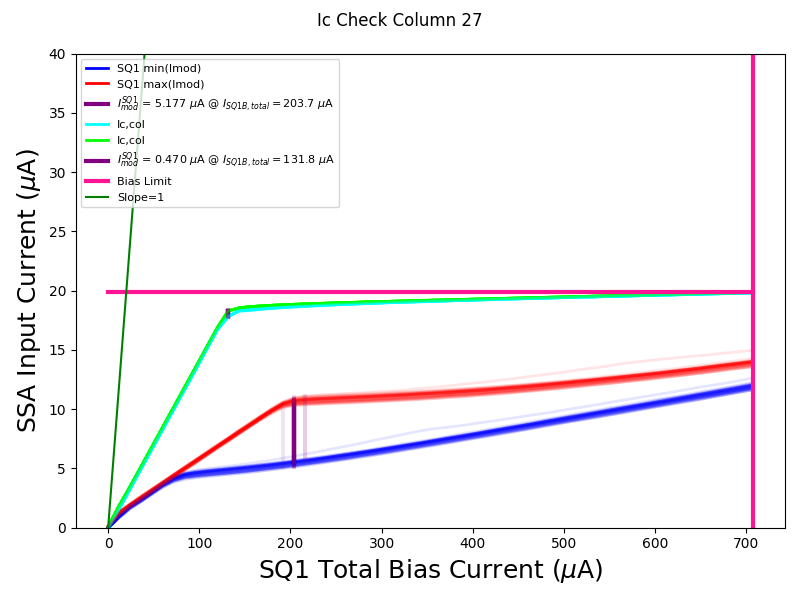
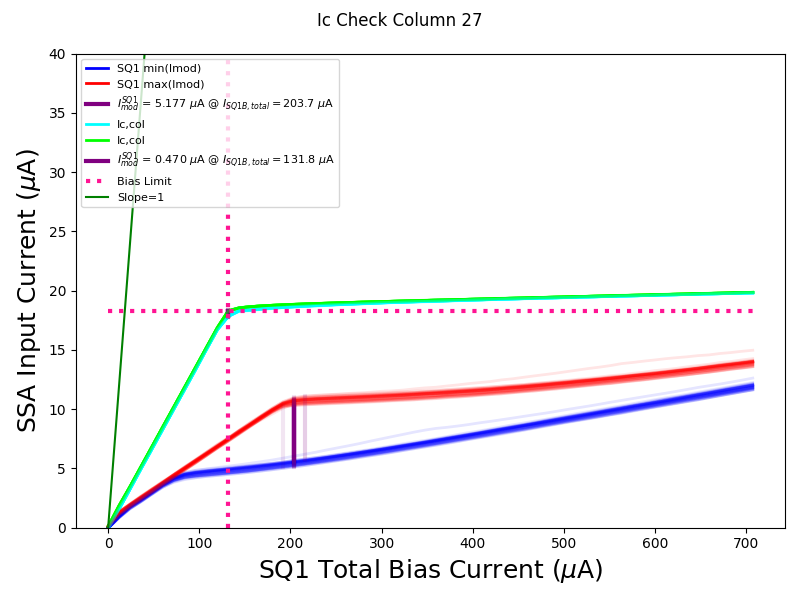
added images to repo

Changed region(s): [[0.125, 0.09, 0.9688, 0.87]]

diff --git a/index.html b/index.html
@@ -57,6 +57,11 @@
                     {
 
                         'Col|col': cols,
+                        'Run|run':[
+                        'Before Warmup|1683651057',
+                            'After Warmup|1684269423',
+                            
+                        ]
                         /*
                         'Run Name|run': [
                             'LC_dark_FPU_250mK_datamode1_run1|LC_dark_FPU_250mK_datamode1_run1',
@@ -66,7 +71,7 @@
                         */
                     },
                     function (params) {
-                        ctime = "1684269423"
+                        ctime = params.run
                         name = "./output_data/" + ctime + '_icminmax_summary_col' +
                             params.col + '.png';
                         console.log(name);
@@ -77,7 +82,7 @@
                 pager.setparams(
                     {
                         'col': '0',
-
+                        'run': '1683651057'
                     }
                 );
 
@@ -94,7 +99,8 @@
         sq1_servo_bias_start = 0; <br>
         sq1_servo_bias_count = 60;<br>
         sq1_servo_bias_step = 500;<br>
-
+        1683651057 - sq1 bias ramp (row selects on)<br>
+        1683653428 - sq1 bias ramp (row select off)<br>
         <figure>
             <img alt="RS Servo Column" id="rs" src="#" onerror="javascript:this.src='dne.png'" />
             <figcaption>
@@ -129,8 +135,11 @@
                         'Col|col': cols1,
 
                         'Run|run': [
-                            '1684269423|1684269423',
-                            '1684272647|1684272647',
+                        'Before Warmup, Row Select On|1683651057',
+                            'Before Warmup, Row Select Off|1683653428',
+                            'After Warmup, Row Select On|1684269423',
+                            'After Warmup, Row Select Off|1684272647',
+                            
                         ]
 
                     },
@@ -164,8 +173,10 @@
             <script type="text/javascript">
                 pager.link("#grid",
                     {
-                        'Run|run2': [
-                            '1684265643|1684265643',
+                        'Run|run3': [
+                        'Before Warmup|1683651057',
+                            'After Warmup|1684269423',
+                            
                         ],
                         'Value|val': [
                             'Ic_col|Ic_col',
@@ -177,7 +188,7 @@
 
                     },
                     function (params) {
-                        ctime = params.run2
+                        ctime = params.run3
                         name = "./output_data/" + ctime + '_' +
                             params.val + '.png';
                         console.log(name);
@@ -188,7 +199,7 @@
                 pager.setparams(
                     {
                         'val': 'Ic_col',
-                        'run2': '1684265643',
+                        'run3': '1684269423',
 
                     }
                 );

diff --git a/code/squid_analysis.py b/code/squid_analysis.py
@@ -357,14 +357,17 @@ def calculate_sq1_parameters(sq1df, sq1_runfile, cfg, col, row, ssa_params,
 
 
 def calculate_icminmax(cfg, filter_sq1, row, col,  sq1_params, ssa_params,
-                       sq1_sgfilter_window_length, sq1_sgfilter_poly_deg, mod_thresh=0.1):
+                       sq1_sgfilter_window_length, sq1_sgfilter_poly_deg, mod_thresh=0.02):
     '''
     Caluculates the ic min and ic max of each row
     '''
+    
     (sq1_safb_servo_curves_dac, sq1_safb_servo_biases_dac,
      max_sq1_safb_servo_span_bias, max_sq1_safb_servo_span, sq1_safb_servo
      ) = sq1_params
     sa_fb_dac_to_uA, M_ssa_fb_pH, sa_ax = ssa_params
+    assert len(sq1_safb_servo_biases_dac
+               )>1, "Must have more than 1 bias point: bias is currently" + str(sq1_safb_servo_biases_dac)
     # np.max/np.min reversed because of SQUID coil polarity; must flip to get physical current
     sq1_safb_servo_mins_dac = np.array([np.max(sq1_safb_servo_curve_dac)
                                         for sq1_safb_servo_curve_dac in sq1_safb_servo_curves_dac])
@@ -415,7 +418,7 @@ def calculate_icminmax(cfg, filter_sq1, row, col,  sq1_params, ssa_params,
     max_sq1imod_idx = np.argmax(sq1_safb_servo_span_sa_in_uA)
     max_sq1imod_uA = (sq1_safb_servo_span_sa_in_uA)[max_sq1imod_idx]
 
-    current_threshold = mod_thresh*max_sq1imod_uA
+    current_threshold = mod_thresh*sq1_safb_servo_maxs_sa_in_uA[max_sq1imod_idx]
     # print(sq1_safb_servo_span_sa_in_uA)
     # print(current_threshold)
     start_sq1imod_idx = np.argmax(
@@ -625,10 +628,9 @@ def main():
                         help='whether to perform rsservo analysis')
     args = parser.parse_args()
 
-    numrows = 41
     numcols = 32
     cols = range(0, numcols)
-    rows = range(0, numrows)
+    
 
     print('Reading in files:' + str(args.ctime))
     ctime = os.path.basename(os.path.dirname(args.ctime))
@@ -638,8 +640,9 @@ def main():
     if(args.dev_cur):
         time0 = time.time()
         sa_data, sa_runfile = rd.get_ssa_tune_data(args.ctime)
-        sq1df, sq1_runfile = rd.get_rsservo_data(
-            args.ctime)  # rd.get_sq1_tune_data(args.ctime)
+        sq1df, sq1_runfile =  rd.get_sq1_tune_data(args.ctime)
+        numrows = max(sq1df['<row>'].astype(int))+1
+        rows = range(0, numrows)
         sq1df_off = None
         sq1_runfile_off = None
         if(args.ctime_off is not None):
@@ -656,6 +659,8 @@ def main():
         time0 = time.time()
         sa_data, sa_runfile = rd.get_ssa_tune_data(args.ctime)
         rsservo_df, rsservo_runfile = rd.get_rsservo_data(args.ctime)
+        numrows = max(rsservo_df['<row>'].astype(int))+1
+        rows = range(0, numrows)
         rsservo_df_off = None
         rsservo_runfile_off = None
         if(args.ctime_off is not None):

diff --git a/code/plot_data.py b/code/plot_data.py
@@ -279,9 +279,9 @@ def plot_icminmax_col(last_fig, col, ic_params, ic_params2=None, ctime=None,
 
             bias_limit = sq1_safb_servo_biases_uA[start_sq1imod_idx]
             s1b_minmax_ax.plot([bias_limit, bias_limit],
-                               [0, sq1_safb_servo_biases_uA[-1]], label='Bias Limit', color='deeppink', lw=3)
+                               [0, sq1_safb_servo_biases_uA[-1]], label='Bias Limit', color='deeppink', lw=3, linestyle="dotted")
             s1b_minmax_ax.plot([0, sq1_safb_servo_biases_uA[-1]],
-                               [start_sq1imod_uA, start_sq1imod_uA],  color='deeppink', lw=3)
+                               [start_sq1imod_uA, start_sq1imod_uA],  color='deeppink', lw=3, linestyle="dotted")
 
         s1b_minmax_ax.plot(sq1_safb_servo_biases_uA, sq1_safb_servo_biases_uA,
                            label='Slope=1', color='green')
@@ -410,10 +410,22 @@ def tile_plot(num_rows, num_columns, data, label, title,
     '''
     Assumes data to be plotted is accessed by data[row][col]
     '''
-
+    vmin = 0
+    vmax = 20
+    if("Ic_max" in title):
+        vmax = 15
+        vmin = 5
+    if("Ic_col" in title):
+        vmax = 15
+        vmin = 5
+    if("mod" in title):
+        vmax = 5
+    if("bias" in title or "crosstalk" in title ):
+        vmax = 300
     fig, ax = plt.subplots()
     im = plt.imshow(data,
-                    interpolation='none', aspect='equal')
+                    interpolation='none', aspect='equal',
+                    vmin = vmin, vmax=vmax, cmap = 'plasma')
 
     ax = plt.gca()
 
